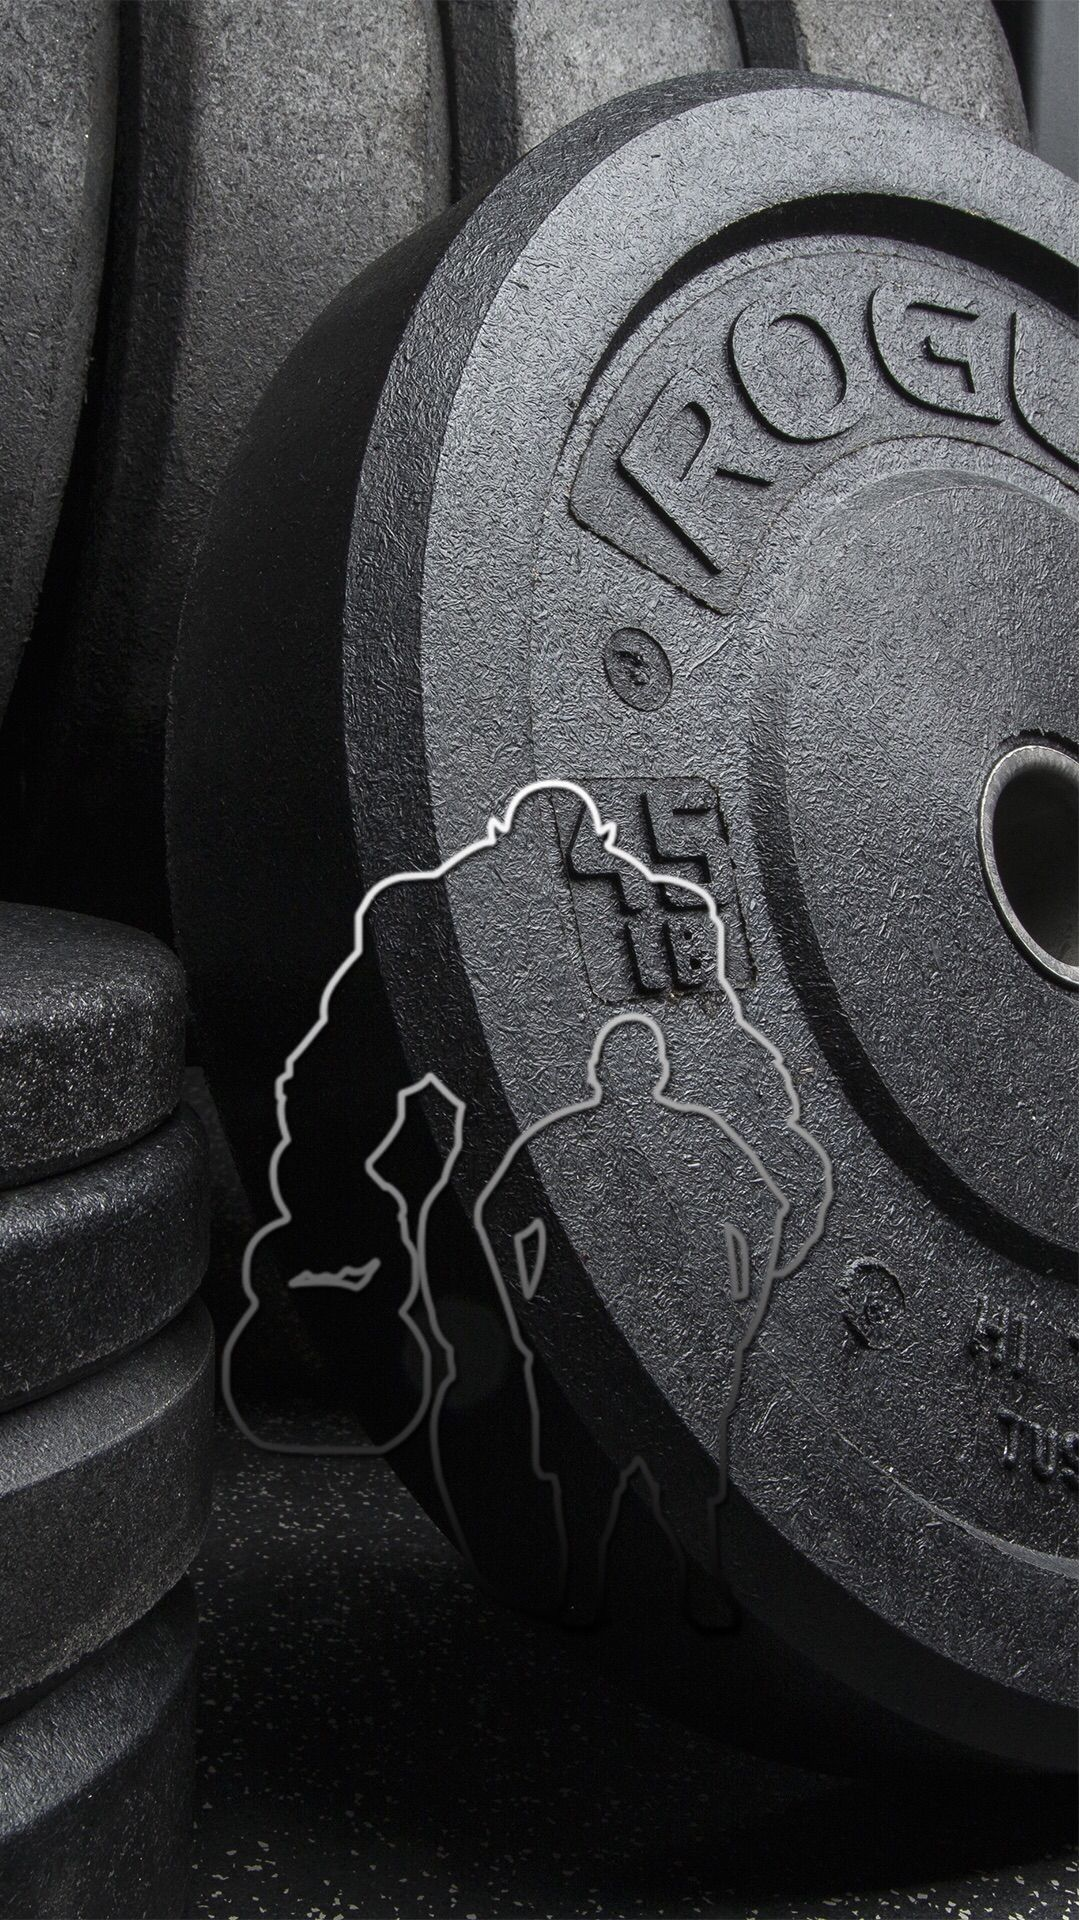
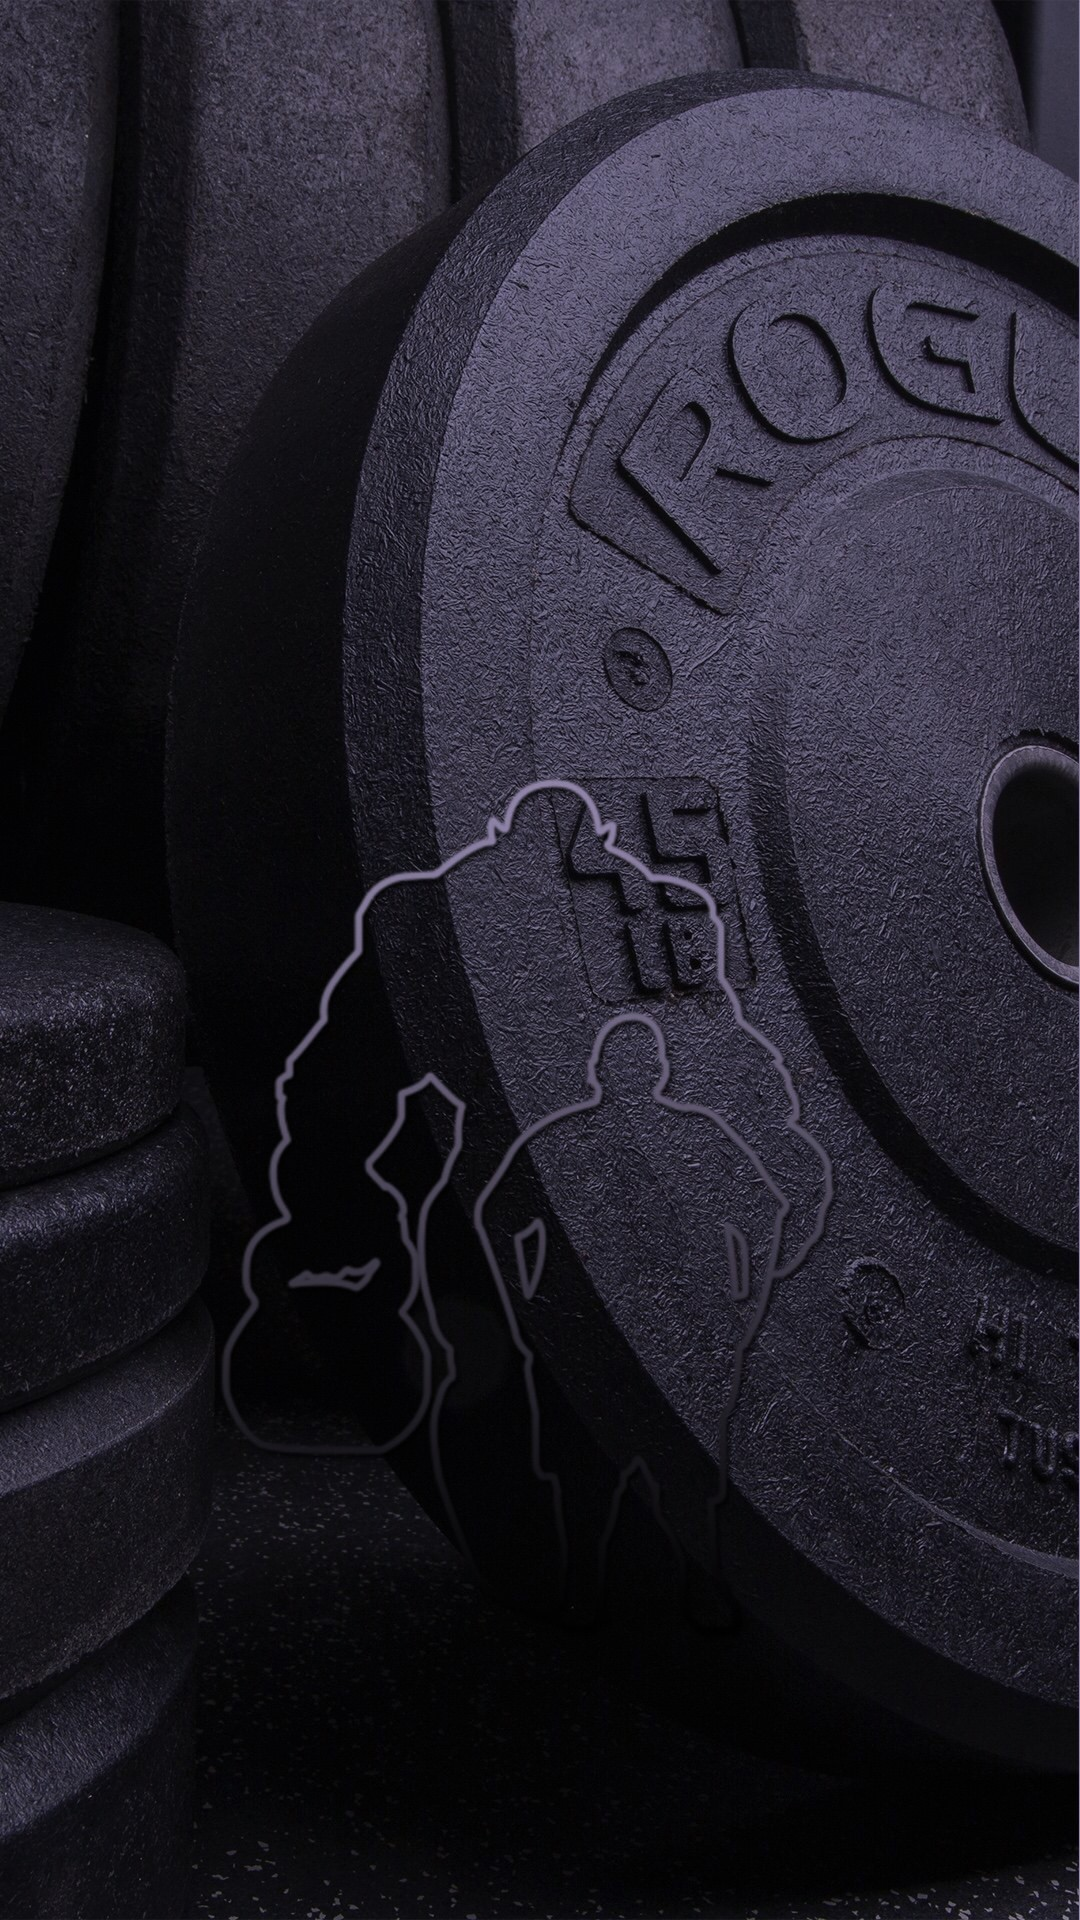
updated background

diff --git a/FrontEnd/Flutter_posEs/lib/pages/login/login_page.dart b/FrontEnd/Flutter_posEs/lib/pages/login/login_page.dart
@@ -116,14 +116,22 @@ class _LoginPageState extends State<LoginPage> implements LoginPageContract {
       children: <Widget>[
         new Padding(
           padding: const EdgeInsets.all(45),
-          child: Text(
-            "Pose Estimation Pro",
-            style: new TextStyle(
-                color: Colors.white,
-                fontStyle: FontStyle.italic,
-                fontWeight: FontWeight.bold),
-            textAlign: TextAlign.right,
-            textScaleFactor: 2.0,
+          child: Text('Exer Vision',
+            textAlign: TextAlign.center,
+            style: TextStyle(
+              fontSize: 50,
+              fontWeight: FontWeight.bold,
+              fontStyle: FontStyle.italic,
+              color: Colors.greenAccent,
+
+              shadows: [
+                Shadow(
+                  blurRadius: 10.0,
+                  color: Colors.black,
+                  offset: Offset(3.0, 3.0),
+                ),
+              ],
+            ),
           ),
         ),
         new Form(
@@ -177,7 +185,7 @@ class _LoginPageState extends State<LoginPage> implements LoginPageContract {
         constraints: BoxConstraints.expand(),
         decoration: BoxDecoration(
             image: DecorationImage(
-                image: AssetImage("lib/images/pic5.jpg"), fit: BoxFit.cover)),
+                image: AssetImage("lib/images/pic9.png"), fit: BoxFit.cover)),
         child: new Center(
           child: loginform,
         ),

diff --git a/FrontEnd/Flutter_posEs/lib/pages/start_workout_page.dart b/FrontEnd/Flutter_posEs/lib/pages/start_workout_page.dart
@@ -32,7 +32,7 @@ class startWorkout extends StatelessWidget {
         body: Container(
             decoration: BoxDecoration(
                 image: DecorationImage(
-                    image: AssetImage("lib/images/pic1.jpg"),
+                    image: AssetImage("lib/images/gym.jpg"),
                     fit: BoxFit.cover)),
             child: Center(
                 child: Column(

diff --git a/FrontEnd/Flutter_posEs/lib/pages/home_page.dart b/FrontEnd/Flutter_posEs/lib/pages/home_page.dart
@@ -124,7 +124,7 @@ class _MyHomePageState extends State<MyHomePage> {
           ),
           decoration: BoxDecoration(
               image: DecorationImage(
-                  image: AssetImage("lib/images/pic3.jpg"), fit: BoxFit.cover)),
+                  image: AssetImage("lib/images/pic32.jpg"), fit: BoxFit.cover)),
         ),
       );
 }

diff --git a/FrontEnd/Flutter_posEs/lib/pages/videos_home_page.dart b/FrontEnd/Flutter_posEs/lib/pages/videos_home_page.dart
@@ -113,7 +113,7 @@ class VideoPage extends State<VideoHomePage> {
         ),
         decoration: BoxDecoration(
             image: DecorationImage(
-                image: AssetImage("lib/images/pic1.jpg"), fit: BoxFit.cover)),
+                image: AssetImage("lib/images/pic33.jpeg"), fit: BoxFit.cover)),
       ),
     );
   }
